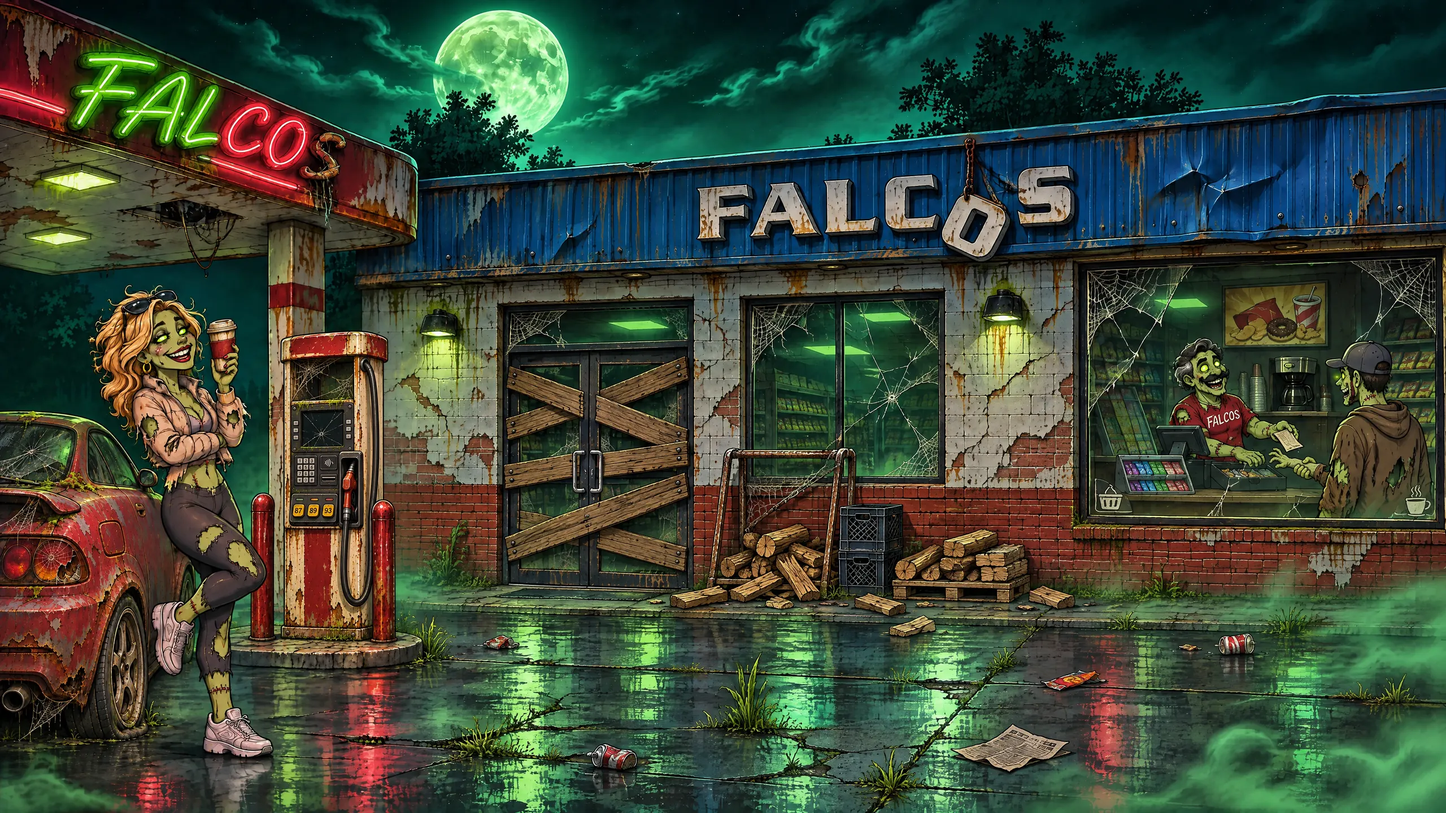
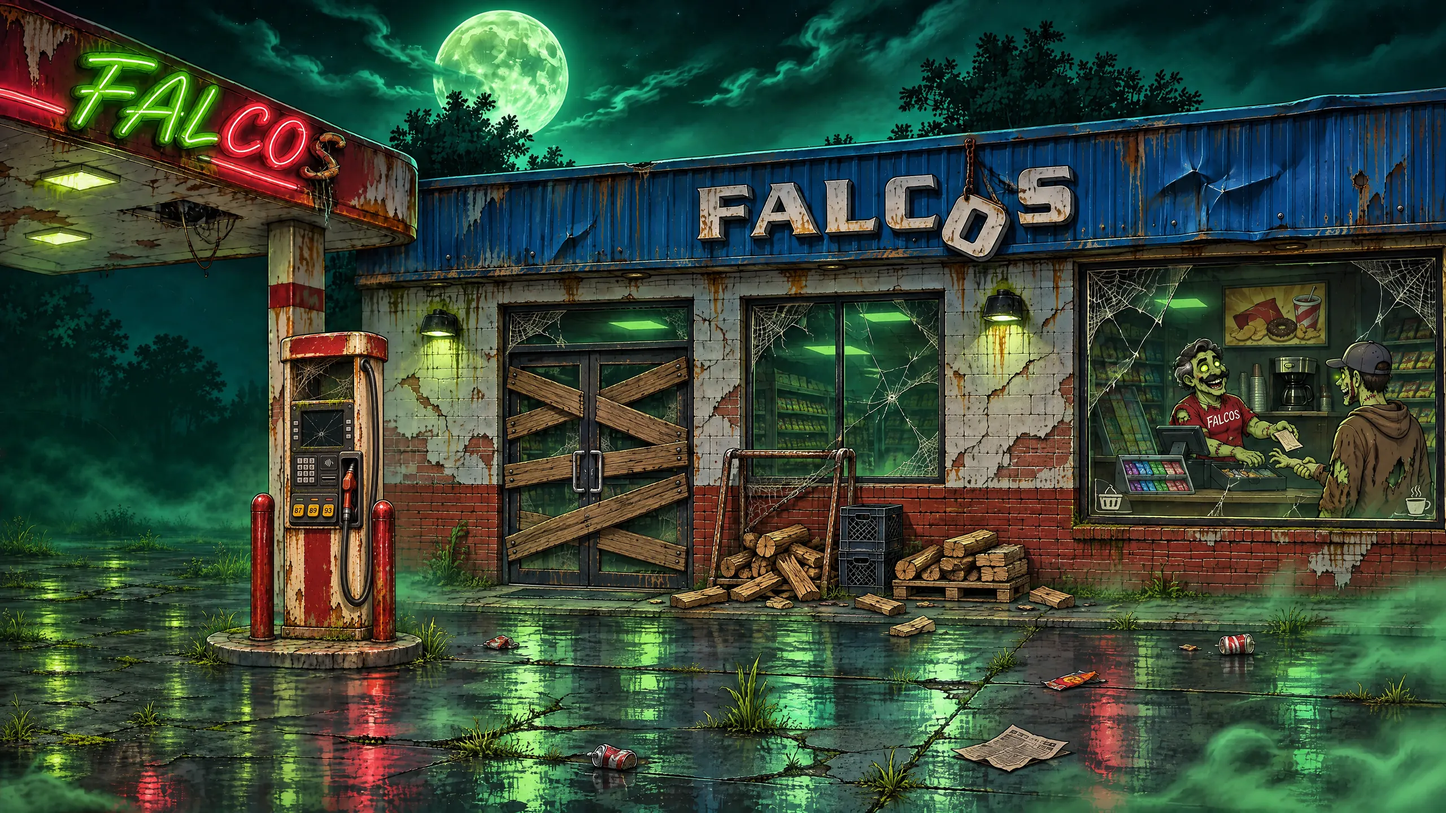
Falcos: the woman and her car removed from the scene
All four scene plates (base night plate, PREMIUM, NITRO, MIDNIGHT) now show an
empty forecourt left of the pump. remove_girl.py blends an image-model edit of
each plate's left crop back over only what changed, so the pump, bollards and
canopy keep their original pixels. Her blink (blink_woman) and coffee-arm loop
(fx_arm) are gone from scene.json, scenefx.js and the assets, and scene_idle.py
no longer makes the arm loop. Plates re-compressed (2560 + _m).

Changed region(s): [[0.0, 0.3438, 0.2188, 1.0]]

diff --git a/frontend/index.html b/frontend/index.html
@@ -151,8 +151,8 @@
   /* The scene: the Falcos gas station at night (bonus_wall.webp, the same plate the bonus intro
      stands on), fitted like a picture - contain on a screen wider than 16:9, cover on anything
      narrower (--wall-scale) - and placed by --wall-x / --wall-y (an upright phone slides it to
-     the left, onto the FALCOS canopy and the woman by the Tahoe). Its life - the canopy neon
-     stuttering, the blinks, her smoke, the window's glints - is laid over it by scenefx.js in
+     the left, onto the FALCOS canopy and the pump). Its life - the canopy neon stuttering, the
+     cashier's blink, the people in the window, the window's glints - is laid over it by scenefx.js in
      #scenefx, which reads this element's own computed background size and position, so it always
      sits exactly on the picture and rides the lean, the hop and the camera with it. The dim
      (::after) lies over the overlays too, so they match the plate under them. */
@@ -2504,7 +2504,7 @@
      sides instead. Wider than 16:9 keeps the whole picture in view, pavement at the foot. */
   @media (max-aspect-ratio: 16/9) { :root { --wall-scale: cover; } }
   @media (max-width: 1100px) and (orientation: portrait) {
-    :root { --wall-x: 6%; }   /* the canopy's FALCOS neon and the woman by the Tahoe, over the board */
+    :root { --wall-x: 6%; }   /* the canopy's FALCOS neon and the pump, over the board */
     .main { justify-content: flex-end; }
     .bottom { padding-bottom: calc(12vh / max(var(--fit, 1), .2)); }   /* bounded: a tiny scale must never blow it up */
     /* The Bonus button stands in the band between the bar and the foot of the screen, a little
@@ -7448,8 +7448,8 @@ function refreshBet() {
 }
 
 /* ---------- character ---------- */
-// The base game's two animated figures are gone: the Falcos scene has its own people (the woman by
-// the Tahoe and the cashier in the window, scenefx.js). The game's reaction hooks stay as no-ops,
+// The base game's two animated figures are gone: the Falcos scene has its own people (the cashier
+// and the customer in the window, scenefx.js). The game's reaction hooks stay as no-ops,
 // so the event code can keep cueing them (a later pass can give the scene reactions of its own).
 let charReact = () => {}, charEnter = () => {}, charExit = () => {};
 const charsLoaded = Promise.resolve([]);

diff --git a/frontend/scenefx.js b/frontend/scenefx.js
@@ -1,8 +1,8 @@
 // The Falcos scene's life, laid exactly over the night plate (#bgwall's background, bonus_wall.webp):
-// the canopy's FALCOS neon now and then stuttering off (sign_off), the woman by the Tahoe and the
-// cashier in the window each blinking on a clock of their own (blink_woman / blink_cashier), and
-// the Blender loop of the window's glass reflection and the coin glints at the till (fx_cashier). (Her
-// cigarette smoke loop, fx_woman, is gone: no smoking in the scene, 2026-11-10.)
+// the canopy's FALCOS neon now and then stuttering off (sign_off), the cashier in the window
+// blinking on a clock of his own (blink_cashier), the people in the window breathing (fx_people), and
+// the Blender loop of the window's glass reflection and the coin glints at the till (fx_cashier). (The
+// woman by the car and the car are gone from the plates, with her blink and arm loop: 2026-11-12.)
 //
 // Everything is described by assets/scene/scene.json in PLATE pixels (the plate is 3840x2160).
 // The layer (#scenefx) is put inside #bgwall and sized to the plate exactly as the browser draws
@@ -26,7 +26,7 @@
   // the neon: mostly on, now and then a stutter (art/falcos/previews/showcase reference)
   const NEON_GAP = [1800, 6000];                                  // ms between stutters
   const NEON_SHORT = [90, 70], NEON_LONG = [70, 60, 50, 120, 40, 260], NEON_LONG_ODDS = .3;
-  const BLINK_MS = 130, BLINKS = { blink_woman: [2500, 5200], blink_cashier: [3000, 6000] };
+  const BLINK_MS = 130, BLINKS = { blink_cashier: [3000, 6000] };
 
   let host = null, root = null, cfg = null, rect = null;
   const els = {}, loops = [], timers = new Set();

diff --git a/tools/falcos/remove_girl.py b/tools/falcos/remove_girl.py
@@ -1,0 +1,51 @@
+"""The woman and her car gone from the scene (owner, 2026-11-12: "remove the girl and the car"): on all four plates
+(the base game's night plate and the PREMIUM / NITRO / MIDNIGHT bonus scenes) the forecourt left of the pump is empty.
+Run after remove_smoke.py and zombie_arm.py (they rewrite plate_lit / plate_zombie); this one always starts from the
+plates as they were with her (kept as art/falcos/scene/plate_<n>.withgirl.png on the first run), so it can re-run.
+
+    .venv/bin/python tools/falcos/remove_girl.py
+    .venv/bin/python tools/falcos/compress_assets.py        (the 2560 plates + their _m twins)
+
+The edits were made on a 1152 x 1728 crop of each 4K plate (art/falcos/work/nogirl/plate_<n>_crop.png, sent at
+1024 x 1536: art/falcos/raw/nogirl_<n>.png - checked: no shift against the original). Only what the edit actually
+changed inside a box round her and the car is blended back, with a soft edge; the pump, its bollards, the canopy and
+everything right of them stay the original pixels. Her overlays (scene.json blink_woman, fx_arm) are gone with her.
+"""
+import os
+import shutil
+import numpy as np
+from PIL import Image, ImageFilter
+from scipy import ndimage
+
+ROOT = os.path.dirname(os.path.dirname(os.path.dirname(os.path.abspath(__file__))))
+SC = os.path.join(ROOT, 'art', 'falcos', 'scene')
+RAW = os.path.join(ROOT, 'art', 'falcos', 'raw')
+F = os.path.join(ROOT, 'frontend', 'assets')
+BOX = (0, 432, 1152, 2160)              # the crop the edits were made on (plate px)
+AREA = (0, 600, 840, 2160)              # where she, the car (and the NITRO flag) and their reflections were (plate px)
+EDIT = 'nogirl_{}.png'
+OUT = {'lit': 'bonus_wall.webp', 'zombie': 'scene/plate_zombie.webp',
+       'nitro': 'scene/plate_nitro.webp', 'midnight': 'scene/plate_midnight.webp'}
+
+for n, out in OUT.items():
+    src = os.path.join(SC, f'plate_{n}.png')
+    keep = os.path.join(SC, f'plate_{n}.withgirl.png')
+    if not os.path.exists(keep):
+        shutil.copyfile(src, keep)
+    plate = Image.open(keep).convert('RGB')
+    w, h = BOX[2] - BOX[0], BOX[3] - BOX[1]
+    edit = Image.open(os.path.join(RAW, EDIT.format(n))).convert('RGB').resize((w, h), Image.LANCZOS)
+    region = plate.crop(BOX)
+    x0, y0, x1, y1 = (AREA[0] - BOX[0], AREA[1] - BOX[1], AREA[2] - BOX[0], AREA[3] - BOX[1])
+    # the pixels the edit changed (the model's re-render noise elsewhere is a few levels: under the threshold)
+    diff = np.abs(np.asarray(edit, np.int16) - np.asarray(region, np.int16)).max(axis=2) > 36
+    diff = ndimage.binary_opening(diff, iterations=1)
+    inbox = np.zeros_like(diff); inbox[y0:y1, x0:x1] = True
+    m = ndimage.binary_closing(diff & inbox, iterations=6)
+    m = ndimage.binary_fill_holes(ndimage.binary_dilation(m, iterations=10)) & inbox
+    mask = Image.fromarray((m * 255).astype(np.uint8)).filter(ImageFilter.GaussianBlur(6))
+    region.paste(edit, (0, 0), mask)
+    plate.paste(region, BOX[:2])
+    plate.save(src)
+    plate.save(os.path.join(F, out), 'WEBP', quality=95, method=4)   # full size: compress_assets.py makes 2560 + _m
+    print(n, '->', os.path.relpath(src, ROOT), '+', out, f'({int(m.sum())} px blended)')

diff --git a/tools/falcos/scene_idle.py b/tools/falcos/scene_idle.py
@@ -1,7 +1,7 @@
 """Small idle motion for the people in the night scene (owner, 2026-11-10: "make the girl with the coffee move her
 arms a little bit ... make the two people inside the gas station have small animations nothing too crazy").
 
-    .venv/bin/python tools/falcos/scene_idle.py      -> frontend/assets/scene/fx_arm_0.webp, fx_people_0.webp (+ scene.json)
+    .venv/bin/python tools/falcos/scene_idle.py      -> frontend/assets/scene/fx_people_0.webp (+ scene.json)  (fx_arm: retired 2026-11-12, remove_girl.py)
 
 No new drawing: each loop is the plate itself (art/falcos/scene/plate_lit.png), gently warped frame by frame - a smooth
 displacement field that is strongest on the moving part and fades to nothing around it, so the background stays put
@@ -105,7 +105,7 @@ def people(X, Y, t):
 if __name__ == '__main__':
     sp = os.path.join(OUT, 'scene.json')
     cfg = json.load(open(sp))
-    arm_l = render('fx_arm', (520, 792, 196, 336), .67, arm)        # the desktop plate's own scale (2560 / 3840)
+    # fx_arm (her coffee arm) is no longer made: she and the car are gone from the plates (remove_girl.py, 2026-11-12)
     ppl_l = render('fx_people', (3060, 850, 760, 545), .62, people)   # a phone decodes it smaller (scenefx)
     layers = {}
     for k, v in cfg['layers'].items():
@@ -113,8 +113,7 @@ if __name__ == '__main__':
             layers['fx_people'] = ppl_l
         if k not in ('fx_people', 'fx_arm'):
             layers[k] = v
-    layers['fx_arm'] = arm_l
     cfg['layers'] = layers
     json.dump(cfg, open(sp, 'w'), indent=1)
-    for n in ('fx_arm', 'fx_people'):
+    for n in ('fx_people',):
         print(n, os.path.getsize(os.path.join(OUT, n + '_0.webp')) // 1024, 'KB', cfg['layers'][n]['w'], 'x', cfg['layers'][n]['h'], 'x', N)
